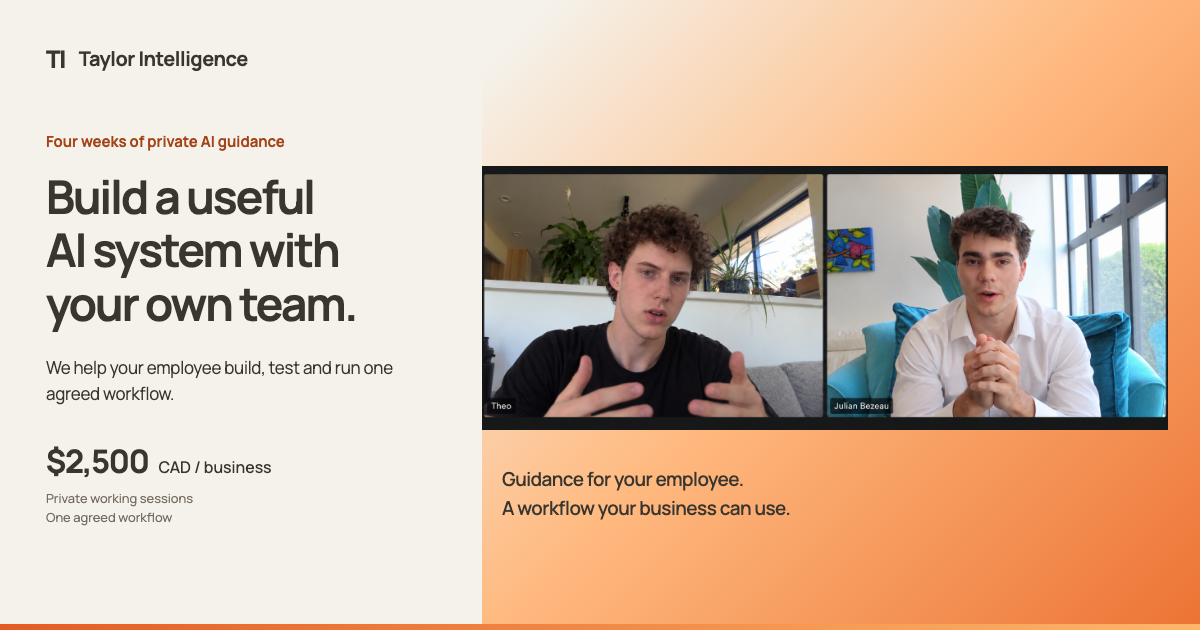
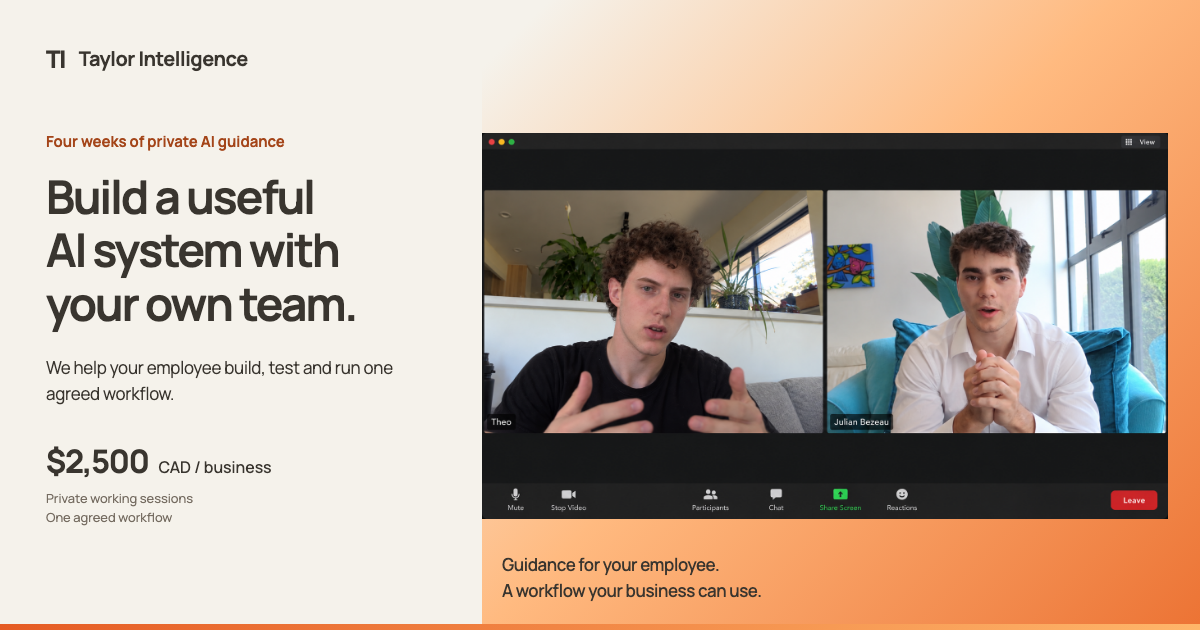
Show the complete supplied mentoring image without cropping

Changed region(s): [[0.4008, 0.2111, 0.9867, 0.8444], [0.4008, 0.8746, 0.6475, 0.9651]]

diff --git a/ai-intensive/style.css b/ai-intensive/style.css
@@ -44,7 +44,7 @@ h1 { max-width: 14ch; font-size: clamp(36px, 3.5vw, 48px); }
 .button:hover { background: #454139; }
 .hero-note { max-width: 44ch; margin-top: 11px; font-size: 11px; line-height: 1.6; }
 .mentor-photo { align-self: center; min-width: 0; }
-.mentor-photo img { display: block; width: 100%; height: auto; aspect-ratio: 2.6; object-fit: cover; object-position: 50% 40%; border-radius: 14px; }
+.mentor-photo img { display: block; width: 100%; height: auto; }
 .mentor-photo figcaption { display: flex; justify-content: space-between; gap: 16px; margin-top: 13px; font-size: 10px; font-weight: 650; }
 .mentor-photo figcaption span:last-child { font-weight: 500; }
 .questions { display: grid; grid-template-columns: 1fr 1.65fr; gap: 70px; padding: 52px 20px 48px; }
@@ -109,7 +109,6 @@ details > p { font-size: 13px; color: var(--muted); padding: 0 24px 20px 0; max-
   .price span { font-size: 12px; }
   .button { font-size: 14px; min-height: 52px; }
   .hero-note { font-size: 11px; }
-  .mentor-photo img { border-radius: 10px; }
   .mentor-photo figcaption { display: flex; font-size: 9px; margin-top: 10px; }
   .client-logos { gap: 12px; }
   .logo-item { max-width: 85px; height: 25px; }

diff --git a/README.md b/README.md
@@ -48,7 +48,7 @@ site's bare routes. Keep offer/copy changes on a review branch until approved.
 - `ai-intensive/style.css`: independent, compact mentoring layout. A split orange hero holds the complete offer, inclusion checklist, price and fit-call link next to Theo’s supplied image of himself and Julian. FAQs follow immediately. Small original-color logos remain in their white band near the top. The parent-site design is separate.
 - `ai-intensive/fonts/Manrope.ttf`: self-hosted variable font, no external font request. Original copyright and SIL OFL1.1 retained in `fonts/OFL.txt`. Source: [Google Fonts Manrope](https://github.com/google/fonts/tree/main/ofl/manrope).
 - `ai-intensive/logos/`: original official client assets hosted locally.
[2 lines of base64/hex data omitted]
 - `ai-intensive/images/orange-mentoring-background.jpg`: web-optimized derivative of one completed Higgsfield image, job `97ab4c12-93b9-4fd7-84d6-cd14ac73994c`, model `gpt_image_2_5`. Orange/apricot pigment and paper-grain background; no generated people. The generation quote was 0.25 credits; an actual debit was not separately checked.
 - `ai-intensive/og.png`: current 1200×630 social poster using the same supplied two-person image, current offer/price, no fixed workshop date.
 - Education link in `/services` points here; sitemap includes the route.
